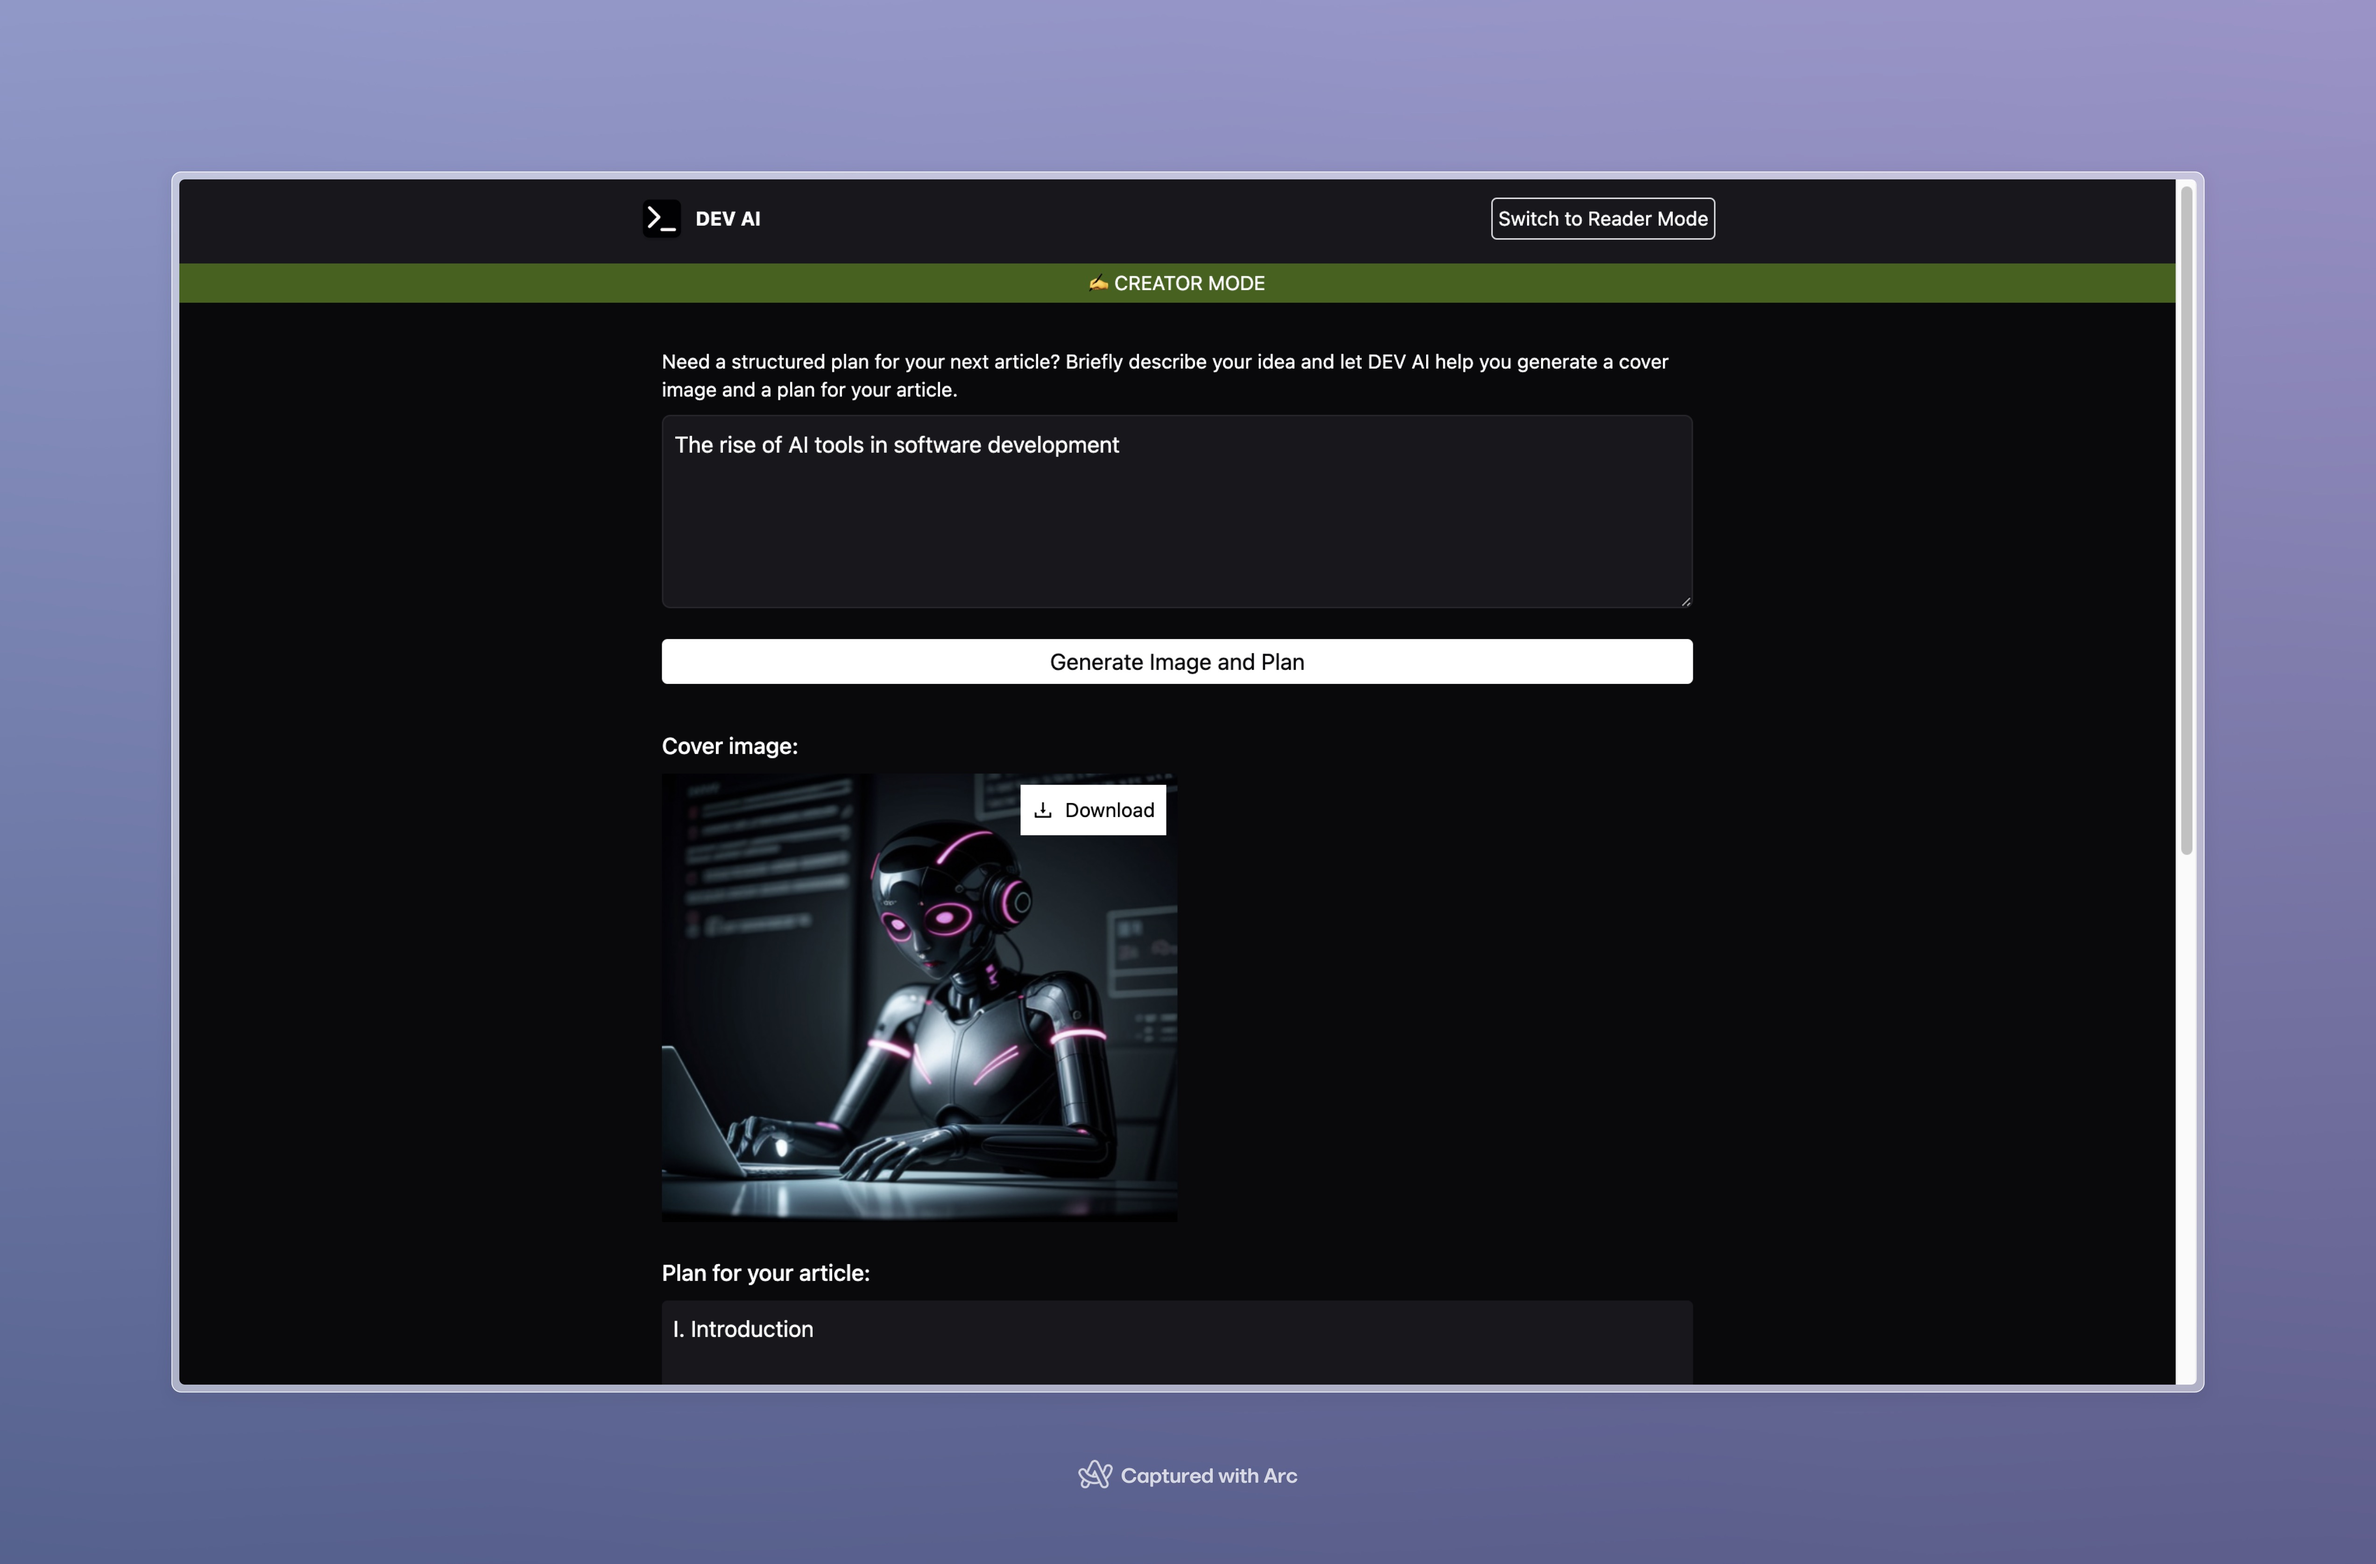
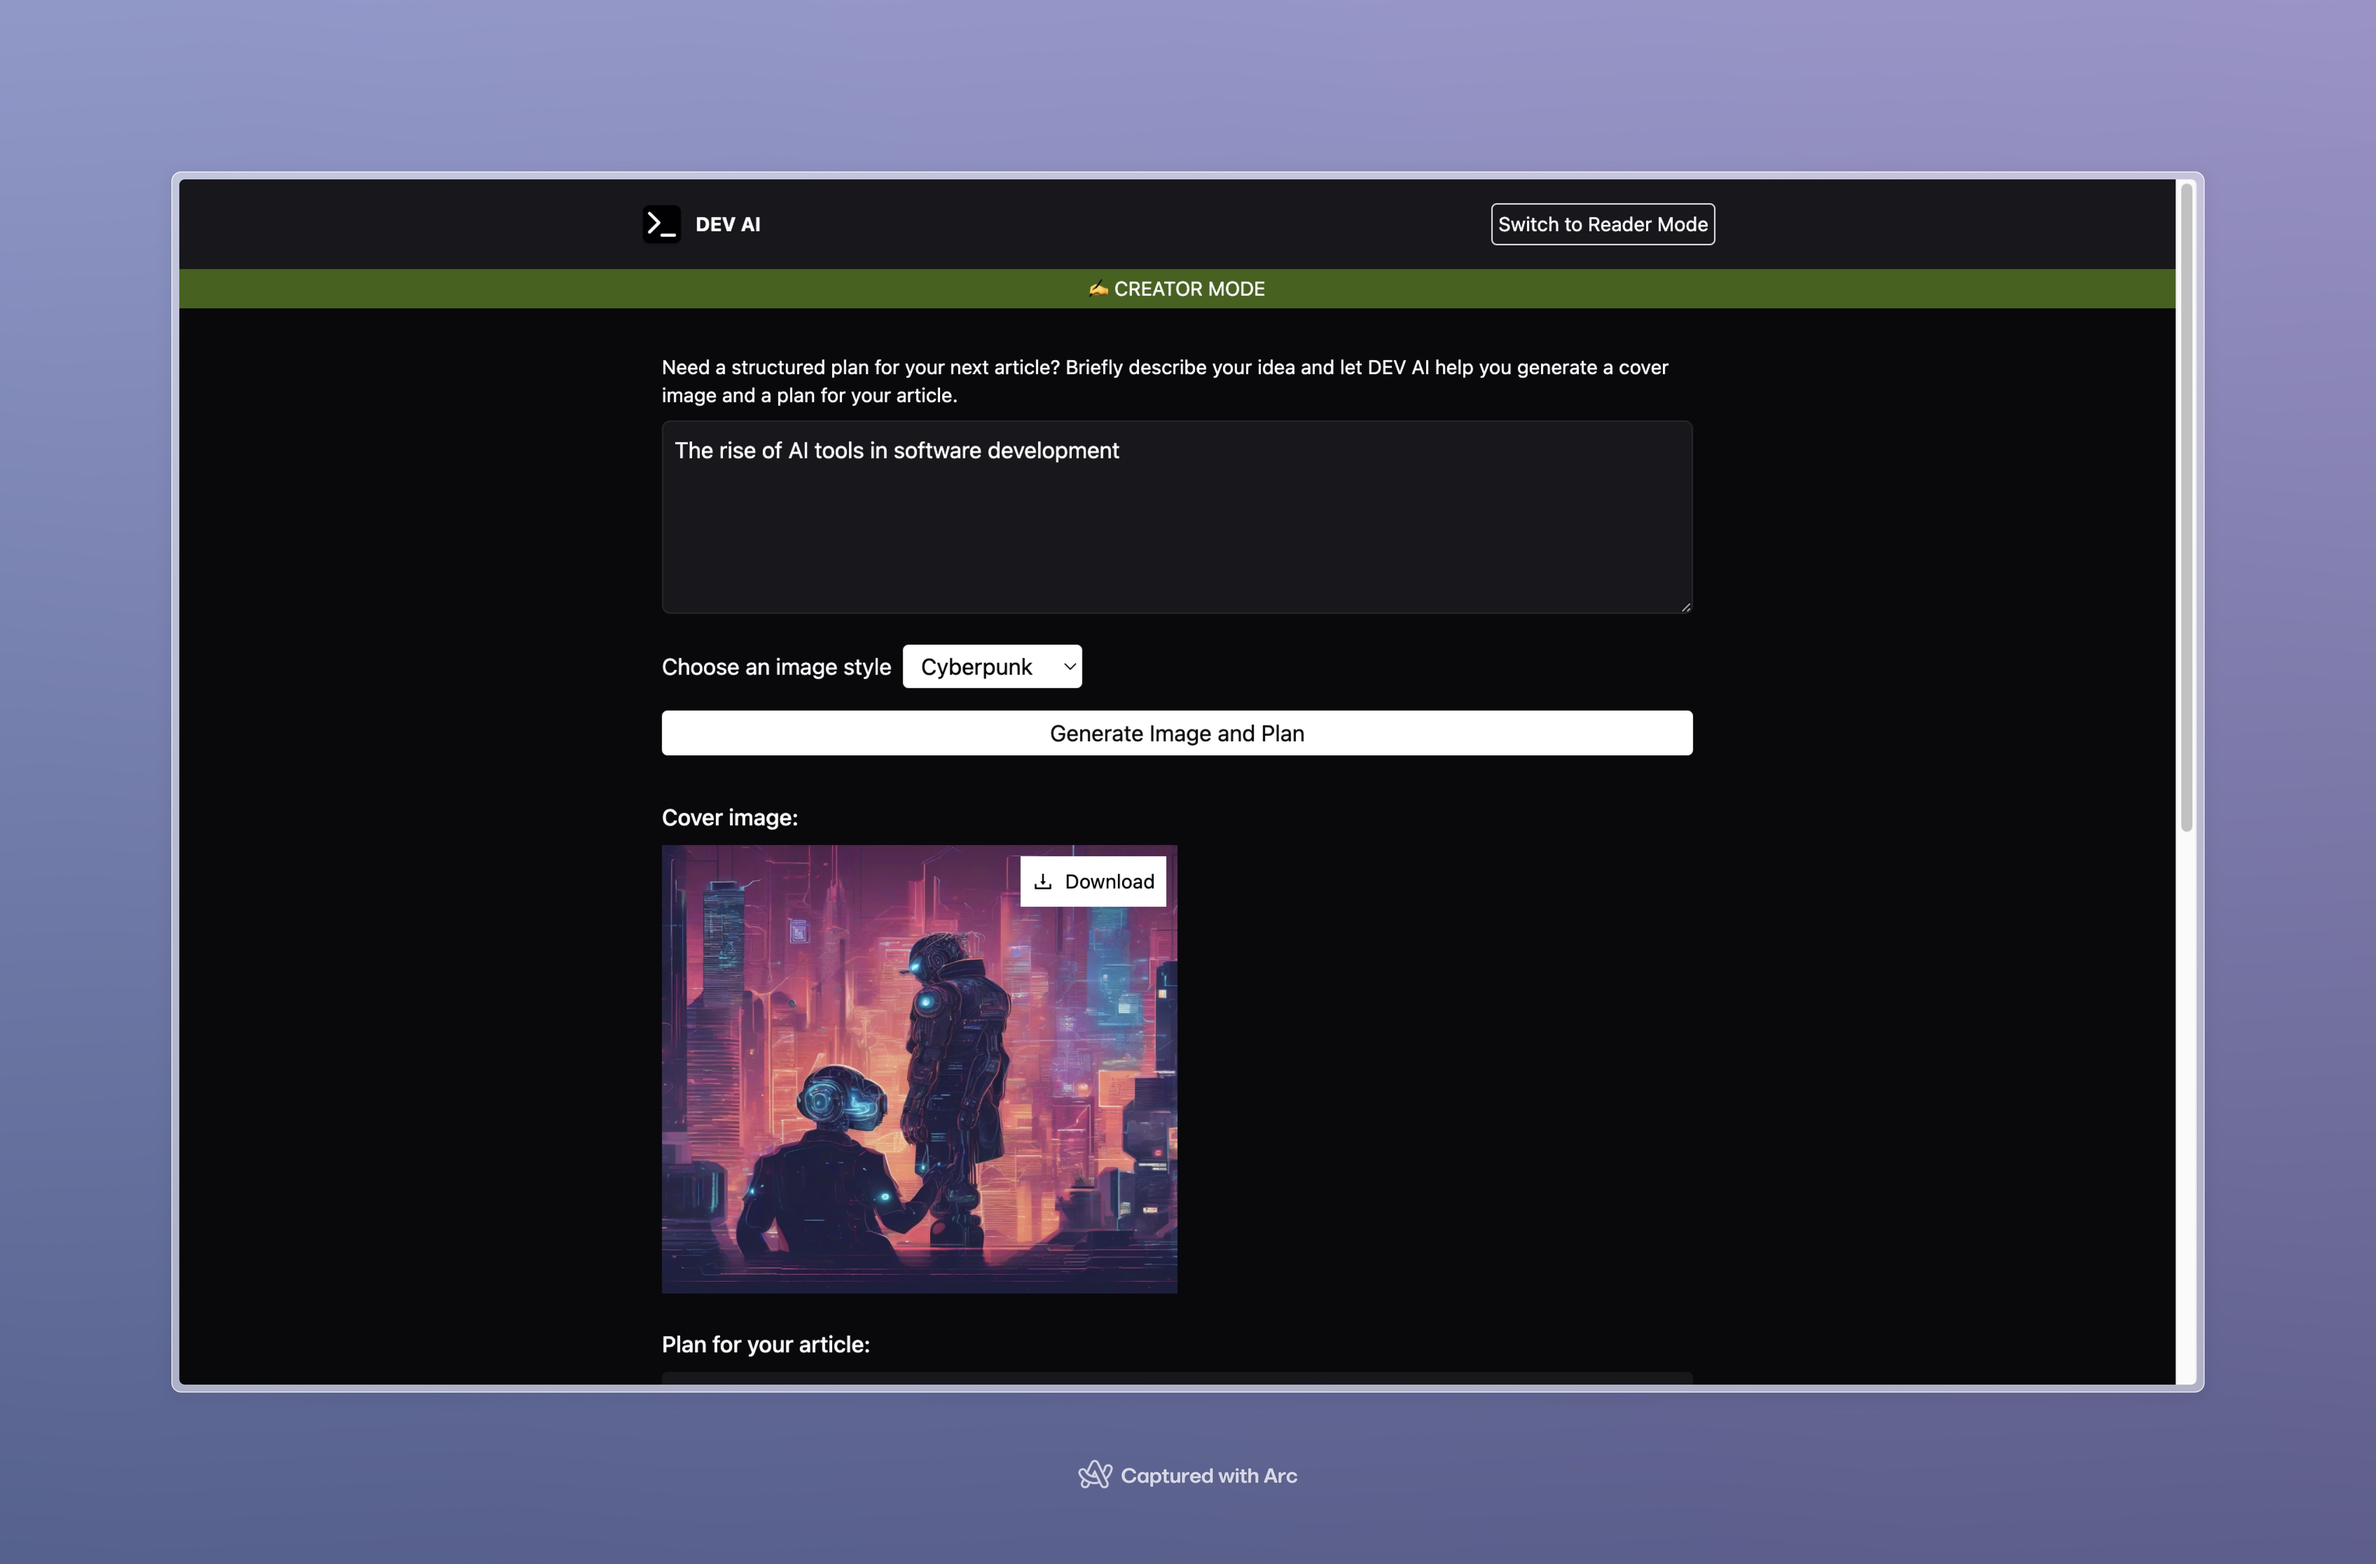
feat: add image style option

Changed region(s): [[0.2812, 0.4038, 0.7188, 0.8698], [0.0938, 0.1243, 0.9062, 0.3106]]

diff --git a/pages/creator.tsx b/pages/creator.tsx
@@ -2,11 +2,14 @@ import React from "react";
 import Image from "next/image";
 import { AiOutlineDownload } from "react-icons/ai";
 
-import { Button } from "@/components";
+import { IMAGE_STYLES } from "@/constants";
+
+import { Button, Select } from "@/components";
 import { RootLayout } from "@/layouts";
 
 const Creator = () => {
   const [description, setDescription] = React.useState<string>("");
+  const [imageStyle, setImageStyle] = React.useState<string>("3D model");
   const [error, setError] = React.useState<string>("");
 
   const [isGeneratingImage, setIsGeneratingImage] =
@@ -34,6 +37,7 @@ const Creator = () => {
         },
         body: JSON.stringify({
           text: description,
+          style: imageStyle,
         }),
       });
 
@@ -52,7 +56,7 @@ const Creator = () => {
       setIsGeneratingImage(false);
       console.error(error);
     }
-  }, [description]);
+  }, [description, imageStyle]);
 
   const handleGeneratePlan = React.useCallback(async () => {
     try {
@@ -136,6 +140,14 @@ const Creator = () => {
             />
             {!!error && <p className="text-red-500">{error}</p>}
           </div>
+          <div className="mb-4">
+            <Select
+              value={imageStyle}
+              onChange={(e) => setImageStyle(e.target.value)}
+              options={IMAGE_STYLES}
+              label="Choose an image style"
+            />
+          </div>
           <Button
             disabled={!description || isGenerating}
             onClick={handleGenerate}
@@ -146,7 +158,7 @@ const Creator = () => {
 
         {isPartiallyGenerated && (
           <div className="mb-4 text-center">
-            <p className="text-white text-xs">
+            <p className="text-white text-xs text-yellow-600">
               Hold on! Still working on the remaining part.
             </p>
           </div>

diff --git a/pages/index.tsx b/pages/index.tsx
@@ -4,7 +4,14 @@ import { AiOutlineCloseCircle } from "react-icons/ai";
 import { getPositivityText, getStepStatus, sanitizeText } from "@/utils";
 import { DEV_TO_URL_REGEX, LANGUAGES, STEP_TEXT } from "@/constants";
 
-import { ArticleCard, Button, Input, Step, SummaryCard } from "@/components";
+import {
+  ArticleCard,
+  Button,
+  Input,
+  Select,
+  Step,
+  SummaryCard,
+} from "@/components";
 import { RootLayout } from "@/layouts";
 
 import { APIState, Article, Step as StepType } from "@/types";
@@ -200,20 +207,12 @@ const Home = () => {
           </div>
           {showTranslateOption ? (
             <div className="mb-4 flex items-center justify-between">
-              <div className="flex items-center">
-                <label className="text-white mr-2">Translate to</label>
-                <select
-                  className="block w-32 px-2 py-1 border border-gray-100 rounded"
-                  value={translateTo}
-                  onChange={(e) => setTranslateTo(e.target.value)}
-                >
-                  {LANGUAGES.map((language) => (
-                    <option key={language.value} value={language.value}>
-                      {language.label}
-                    </option>
-                  ))}
-                </select>
-              </div>
+              <Select
+                label="Translate to"
+                value={translateTo}
+                onChange={(e) => setTranslateTo(e.target.value)}
+                options={LANGUAGES}
+              />
               <span
                 className="text-white cursor-pointer"
                 onClick={() => setShowTranslateOption(false)}

diff --git a/pages/api/generate-plan.ts b/pages/api/generate-plan.ts
@@ -1,6 +1,3 @@
-// Next.js API route support: https://nextjs.org/docs/api-routes/introduction
-import type { NextApiRequest, NextApiResponse } from "next";
-
 export const runtime = "edge";
 
 const MODEL = "meta/llama-2-7b-chat-fp16";
@@ -20,15 +17,11 @@ export default async function handler(req: Request) {
           {
             role: "system",
             content:
-              "You are an experienced tech blog writer. When given an idea for a blog post, you have to generate a rough plan for the article.",
+              "You are an experienced tech blog writer. When given an idea for a blog post, you have to generate a rough plan for the article in not more than 200 words. It should also list a few topics to cover. Output should be in bullet points or in an easy-to-read format.",
           },
           {
             role: "user",
             content: text,
-          },
-          {
-            role: "assistant",
-            content: "Here is a rough plan for your article:",
           },
         ],
       }),

diff --git a/pages/api/generate-image.ts b/pages/api/generate-image.ts
@@ -1,13 +1,10 @@
-// Next.js API route support: https://nextjs.org/docs/api-routes/introduction
-import type { NextApiRequest, NextApiResponse } from "next";
-
 export const runtime = "edge";
 
-const MODEL = "lykon/dreamshaper-8-lcm";
+const MODEL = "stabilityai/stable-diffusion-xl-base-1.0";
 
 export default async function handler(req: Request) {
   if (req.method === "POST") {
-    const { text } = await req.json();
+    const { text, style } = await req.json();
 
     const response = await fetch(`${process.env.CF_WORKER_AI}/${MODEL}`, {
       method: "POST",
@@ -16,7 +13,7 @@ export default async function handler(req: Request) {
         Authorization: `Bearer ${process.env.CF_TOKEN}`,
       },
       body: JSON.stringify({
-        prompt: text,
+        prompt: `Create a cover image for a tech blog post discussing ${text}. The style should be ${style}, reflecting the essence of the article's content.`,
       }),
     });
 

diff --git a/components/Select/index.tsx b/components/Select/index.tsx
@@ -1,0 +1,29 @@
+import React from "react";
+
+type Props = {
+  value: string;
+  onChange: (e: React.ChangeEvent<HTMLSelectElement>) => void;
+  options: { value: string; label: string }[];
+  label: string;
+};
+
+const Select = ({ value, onChange, options, label }: Props) => {
+  return (
+    <div className="flex items-center">
+      <label className="text-white mr-2">{label}</label>
+      <select
+        className="block w-32 px-2 py-1 border border-gray-100 rounded"
+        value={value}
+        onChange={onChange}
+      >
+        {options.map((option) => (
+          <option key={option.value} value={option.value}>
+            {option.label}
+          </option>
+        ))}
+      </select>
+    </div>
+  );
+};
+
+export default Select;

diff --git a/constants/index.ts b/constants/index.ts
@@ -41,3 +41,12 @@ export const LANGUAGES = [
 
 export const DEV_TO_URL_REGEX =
   /^(https?:\/\/)?(www\.)?dev.to\/[a-zA-Z0-9-]+\/[a-zA-Z0-9-]+-\w+$/;
+
+export const IMAGE_STYLES = [
+  { label: "Van Gogh Art", value: "van gogh art" },
+  { label: "3D Model", value: "3D model" },
+  { label: "Abstract", value: "abstract" },
+  { label: "Realistic", value: "realistic" },
+  { label: "Artistic", value: "artistic" },
+  { label: "Cyberpunk", value: "cyberpunk" },
+];

diff --git a/components/index.ts b/components/index.ts
@@ -5,5 +5,15 @@ import Step from "./Step";
 import ArticleCard from "./ArticleCard";
 import SummaryCard from "./SummaryCard";
 import Switch from "./Switch";
+import Select from "./Select";
 
-export { NavBar, Input, Button, Step, ArticleCard, SummaryCard, Switch };
+export {
+  NavBar,
+  Input,
+  Button,
+  Step,
+  ArticleCard,
+  SummaryCard,
+  Switch,
+  Select,
+};

diff --git a/pages/api/summarize.ts b/pages/api/summarize.ts
@@ -1,6 +1,3 @@
-// Next.js API route support: https://nextjs.org/docs/api-routes/introduction
-import type { NextApiRequest, NextApiResponse } from "next";
-
 export const runtime = "edge";
 
 const MODEL = "facebook/bart-large-cnn";

diff --git a/pages/api/translate.ts b/pages/api/translate.ts
@@ -1,6 +1,3 @@
-// Next.js API route support: https://nextjs.org/docs/api-routes/introduction
-import type { NextApiRequest, NextApiResponse } from "next";
-
 export const runtime = "edge";
 
 const MODEL = "meta/m2m100-1.2b";

diff --git a/pages/api/analyze.ts b/pages/api/analyze.ts
@@ -1,6 +1,3 @@
-// Next.js API route support: https://nextjs.org/docs/api-routes/introduction
-import type { NextApiRequest, NextApiResponse } from "next";
-
 export const runtime = "edge";
 
 type Data = {
